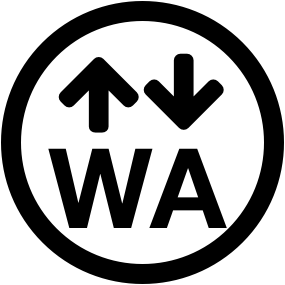
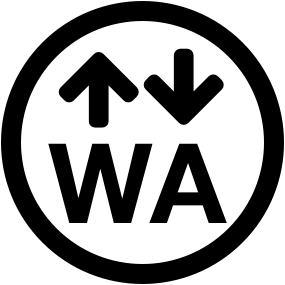
Bundeskiste

diff --git a/README.md b/README.md
@@ -46,6 +46,10 @@ Hier entsteht eine Sammlung von Icons zur Klassifikation von SMV-Modellen. Auf d
 
 <img src="https://raw.github.com/nlohmann/smv_icons/master/smv_akkreditierung.png-64.png" style="width: 300px;">
 
+#### Bundeskiste
+
+<img src="https://raw.github.com/nlohmann/smv_icons/master/smv_bundeskiste.png-64.png" style="width: 300px;">
+
 #### Pseudonyme Teilnahme möglich
 
 <img src="https://raw.github.com/nlohmann/smv_icons/master/smv_pseodonym.png-64.png" style="width: 300px;">
